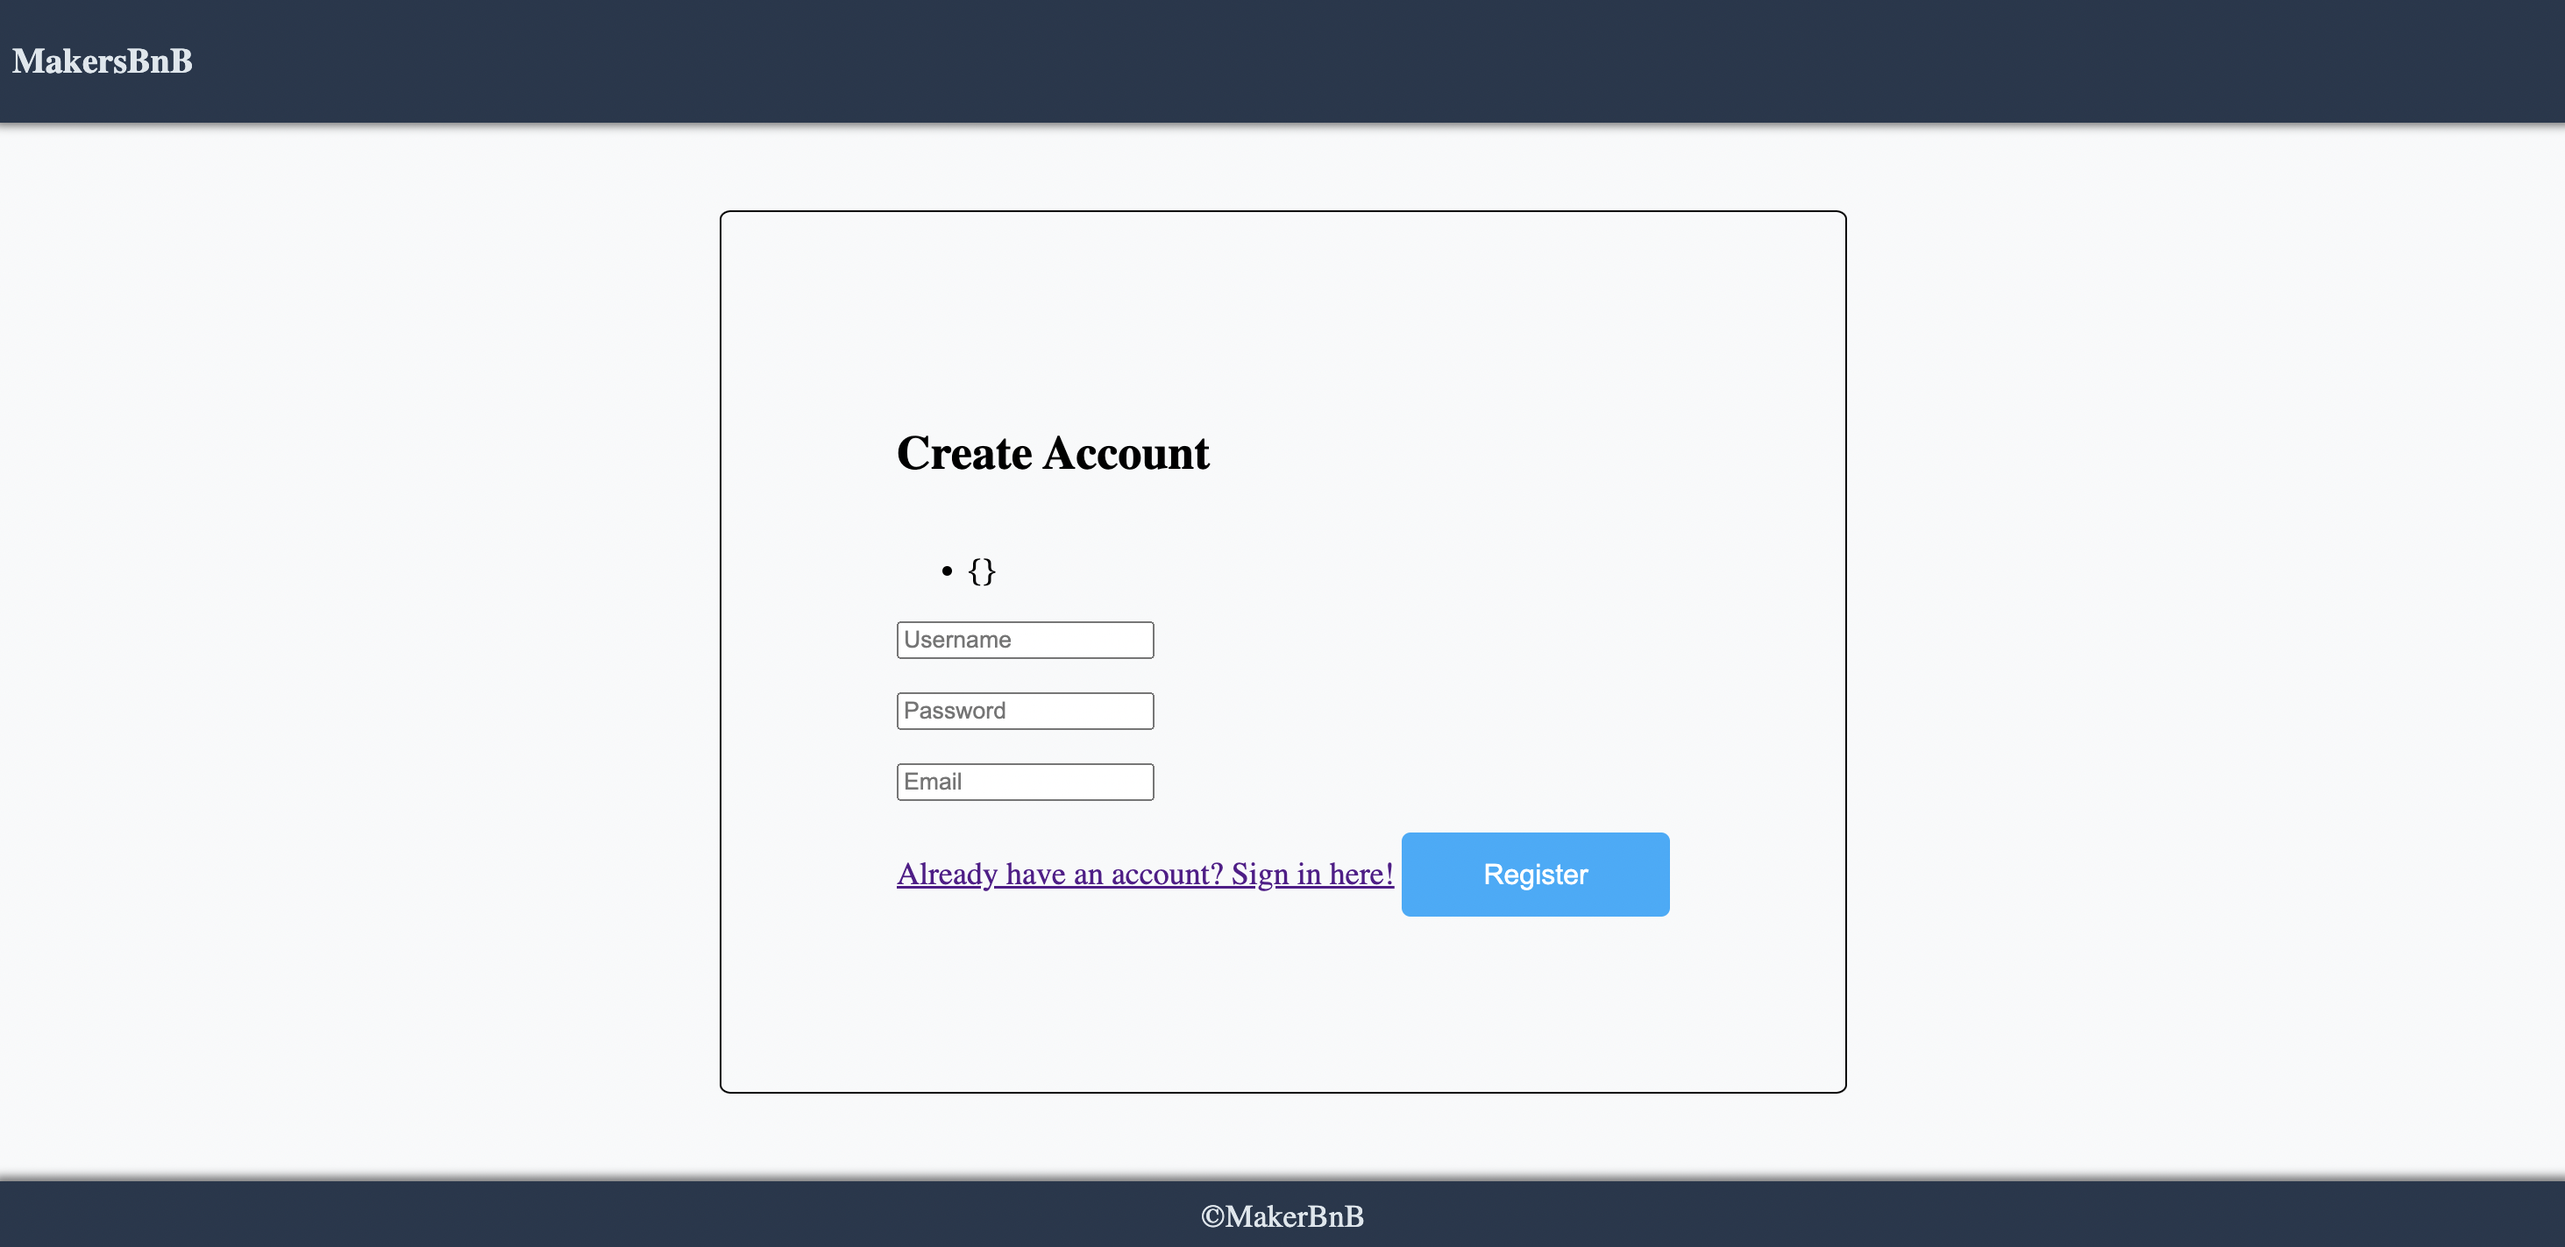
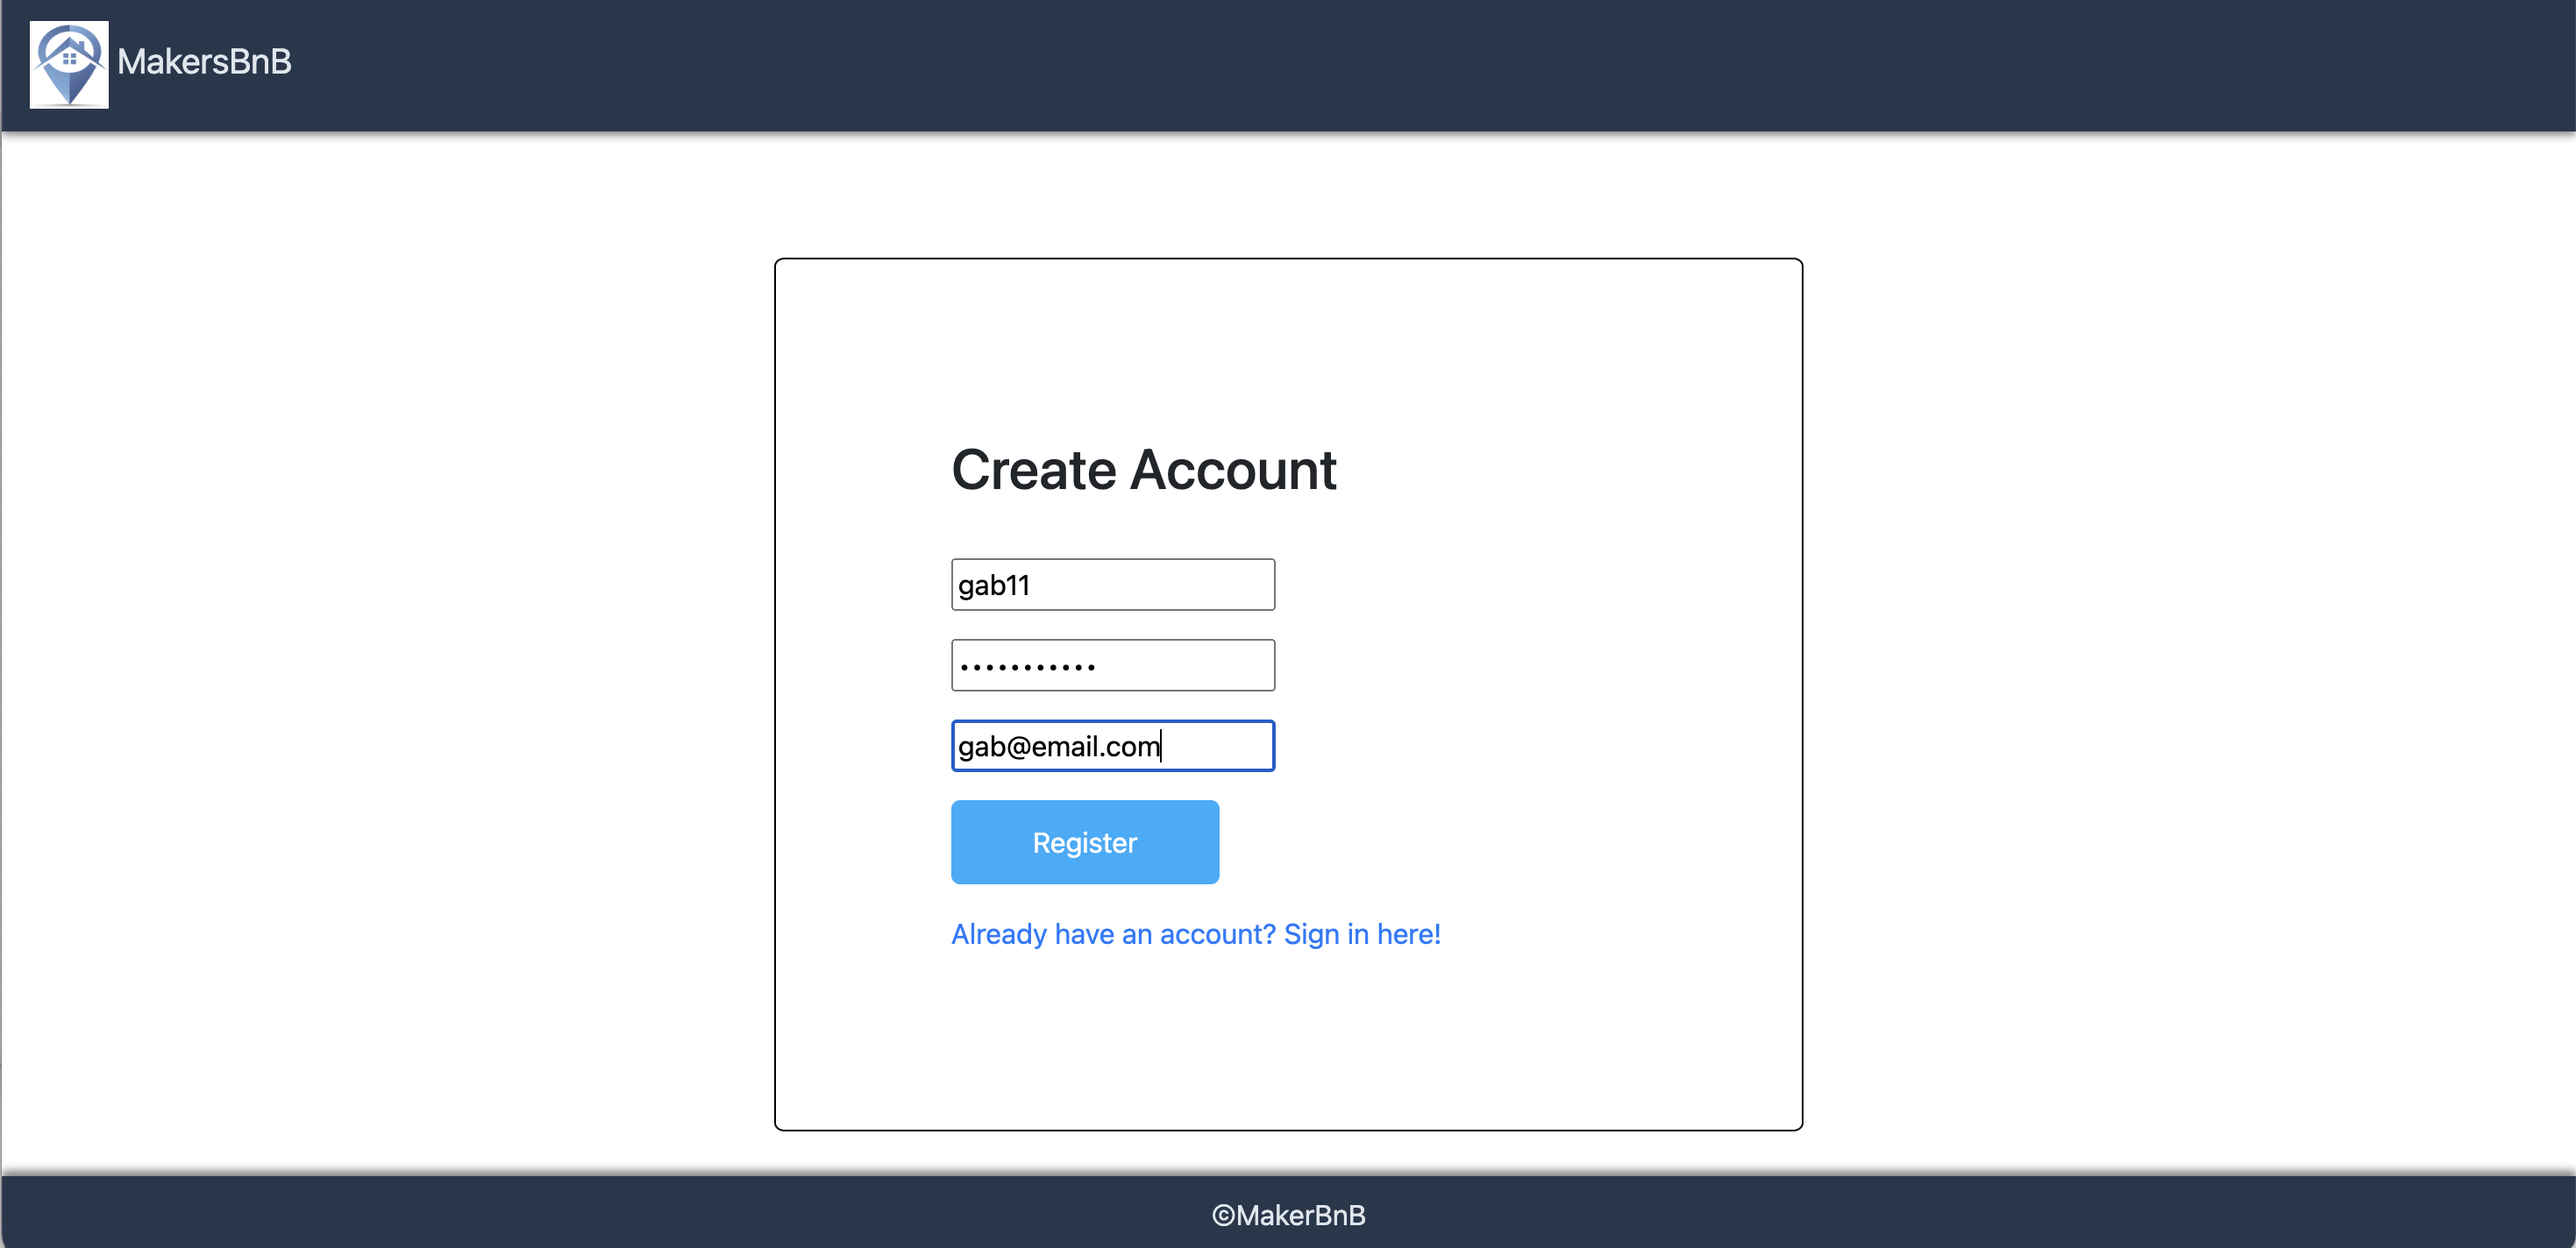
readme updated with real house images

diff --git a/README.md b/README.md
@@ -84,11 +84,13 @@ I would like to make a request to book a space for one night from the space page
 |   Description    |   Image    |
 |:------------:|:----------------:|
 |Landing Page| ![](static/images/landing-page.png)|
+|Scroll down on landing page to see all available spaces| ![](static/images/landing-page2.png)|
 |User can create account| ![](static/images/create-account.png)|
-|User can view profile page| ![](static/images/plain-profile.png)|
-|User can create new Stay| ![](static/images/create-listing.png)|
-|User can view Stay and create a new Booking| ![](static/images/booking.png)|
-|User can view their created Stays and Bookings| ![](static/images/profile-bookings-stay.png)|
+|User can view inital profile page| ![](static/images/initial-profile.png)|
+|User can create new Stay| ![](static/images/create-space.png)|
+|User can view profile page with created Stay| ![](static/images/profile-listing.png)|
+|User can view Stay and create a new Booking| ![](static/images/space-page.png)|
+|User can view their Bookings on their profile| ![](static/images/profile-bookings.png)|
 
 
 
